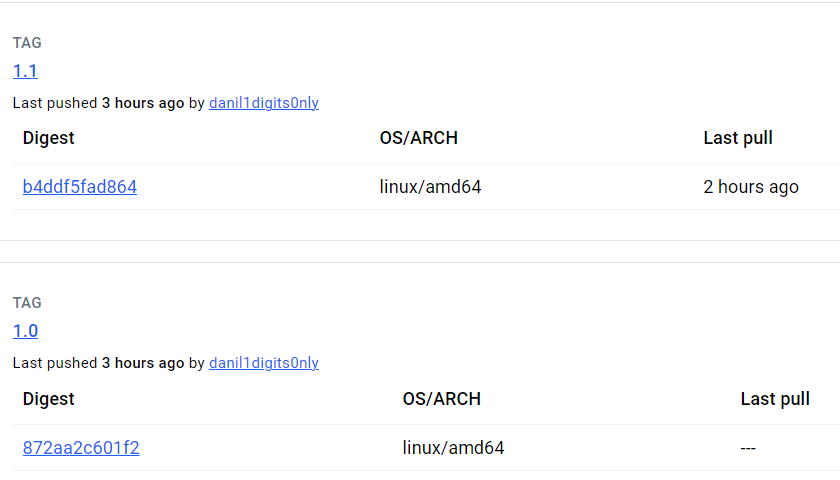
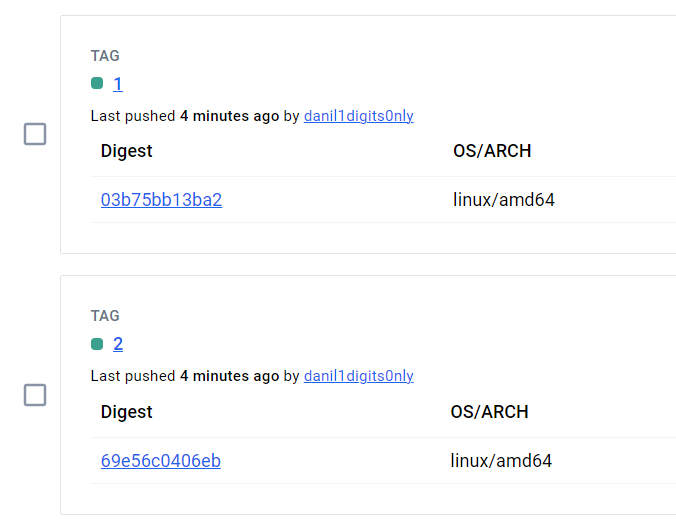
readme updated

diff --git a/lab21/readme.md b/lab21/readme.md
@@ -1,36 +1,96 @@
 # Домашнее задание №21
 
-
-1.	Зарегистрироваться в google cloud(или любой другой облачной платформе) и создать проект с istio
-      или установить minikube на локальную машину и установить туда istio.
-      Первый вариант предпочтительней.
-2.	Написать hello world spring boot приложение, возвращающая на GET запрос текущую дату.
-3.	Составить docker file для сборки образа c вашим приложением
-4.	Собрать образ, проверить локальную работоспособность
-5.	Запушить образ в один из публичных registry. Например, dockerhub
-6.	Удалить локальный образ, запушить с dockerhub
-7.	Развернуть приложение в google cloud с использованием istio
+1. Зарегистрироваться в google cloud(или любой другой облачной платформе) и создать проект с istio
+   или установить minikube на локальную машину и установить туда istio.
+   Первый вариант предпочтительней.
+2. Написать hello world spring boot приложение, возвращающая на GET запрос текущую дату.
+3. Составить docker file для сборки образа c вашим приложением
+4. Собрать образ, проверить локальную работоспособность
+5. Запушить образ в один из публичных registry. Например, dockerhub
+6. Удалить локальный образ, запушить с dockerhub
+7. Развернуть приложение в google cloud с использованием istio
 
 Продвинутое домашнее задание (не обязательно):
-1.	Написать фронт приложение, которое будет красиво отображать текущую дату. Текущую дату фронт должен запрашивать у бэкэнда.
-2.	Развернуть оба приложения в google cloud с использованием istio
-3.	Пробить роут до приложения.
-4.	Выполнить несколько запросов, посмотреть как они будут выглядеть в Kiali
-5.	Выпустить новую версию фронт приложения с изменением стиля отображения.
-6.	Выполнить канареечное развертывание фронта, настроить на использование одного бека.
-7.	Проверить, что под единым роутом нам доступны то одна то другая версия приложения.
 
+1. Написать фронт приложение, которое будет красиво отображать текущую дату. Текущую дату фронт должен запрашивать у
+   бэкэнда.
+2. Развернуть оба приложения в google cloud с использованием istio
+3. Пробить роут до приложения.
+4. Выполнить несколько запросов, посмотреть как они будут выглядеть в Kiali
+5. Выпустить новую версию фронт приложения с изменением стиля отображения.
+6. Выполнить канареечное развертывание фронта, настроить на использование одного бека.
+7. Проверить, что под единым роутом нам доступны то одна то другая версия приложения.
 
-### Результаты
+## Результаты
 
 - Для бэкенда составил двухэтапный [Dockerfile](Dockerfile)
-  - Сборка происходит в контейнере с JDK 
-  - Сервер запускается в контейнере с JRE
+    - Сборка происходит в контейнере с JDK
+    - Сервер запускается в контейнере с JRE
 - У фронтенда тоже двухэтапный [Dockerfile](frontend/Dockerfile)
-  - Сборка в контейнере node:21-alpine (фронтенд тоже нужно собирать)
-  - Раздача статических файлов фронтенда с помощью контейнера с nginx, а также проксирование к бэкенду
+    - Сборка в контейнере node:21-alpine (фронтенд тоже нужно собирать)
+    - Раздача статических файлов фронтенда с помощью контейнера с nginx, а также проксирование к бэкенду
 - Мелкий docker-compose, чтобы локально потестить
-- Запушил образы для [бэкенда](https://hub.docker.com/r/danil1digits0nly/lab21-api) и [фронтенда](https://hub.docker.com/r/danil1digits0nly/lab21-frontend)
-- У фронтенда 2 версии, начальная и канарейка ![img.png](frontend-tags.png)
+- Запушил образы для [бэкенда](https://hub.docker.com/r/danil1digits0nly/lab21-api)
+  и [фронтенда](https://hub.docker.com/r/danil1digits0nly/lab21-frontend)
+- У фронтенда 2 версии: стабильная и канарейка ![frontend-tags.png](frontend-tags.png)
 - Использовал VK Cloud ![VK Cloud](vkcloud.png)
-- ... дальше пока ничего ...
+- Файлы деплоя в папке [deployments](deployments)
+- Выпустил [стабильную](deployments/2-deployment-v1.yaml) и [канарейку](deployments/2-deployment-v2.yaml) отдельными деплоями + единственный деплой на общий [бэкенд](deployments/1-deployment-api.yaml)
+- Распределил запросы между версиями с помощью [VirtualService](deployments/5-virtual-service.yaml) в пропорциях 30/70
+- Столкнулся с проблемой раздачи статических файлов при такой схеме распределения:
+    - Первым запросом получаем index.html по роуту ```/```
+        - V1 возвращает index.html с ```<script src="index-awdj21.js">```
+        - V2 возвращает index.html с ```<script src="index-jtu2oa.js">```
+      > Имена скриптов отличаются из-за разного содержимого. При изменении исходников, сборщик пересчитывает хеш и
+      добавляет в конец названия файла. Это способствует кешированию.
+    - Второй запрос запрашивает указанный скрипт
+        - Если балансировщик перенаправил запрос на ту же версию сервиса, то все хорошо;
+        - но если он перенаправит на другую версию, то файл не будет найден.
+
+### Возможные решения
+
+#### Сделать одинаковыми названия скриптов
+Такой файл будет закеширован навсегда, пользователь теперь будет использовать либо stable, либо канарейку.
+Или кеширование отключаем/снижаем строгость и немного теряем в производительности.
+
+#### Заинлайнить все зависимости в index.html
+Рабочий, но не оптимальный вариант.
+
+#### Матчинг по заголовку X-Version
+В html код с таким тегом ```<script src="index-awdj21.js">``` я не могу добавить заголовок X-Version.
+
+#### Матчинг по cookie
+Привязывает пользователя на определенный срок к версии приложения. Требует VirtualService добавлять заголовок Set-Cookie. Если заголовок уже выставлен, например api сервером, то нужно мержить заголовки; это требует кода на Lua внутрVirtualService. Этот вариант таки не попробовал.
+
+#### Конечный вариант
+1. В [package.json](frontend/package.json#version) указываю версию приложения
+2. [Сборщику](frontend/vite.config.js) фронта указываю добавлять префикс к статическим файлам с версией
+из [package.json](frontend/package.json#version)
+3. Результаты такой сборки
+   - статика сервиса v1
+     - index.html
+     - v1
+       - index-DDCXQ8IO.js
+       - index-4oewBf1z.css
+   - статика сервиса v2
+     - index.html
+     - v2
+       - index-CtKhg8lP.js
+       - index-4oewBf1z.css
+4. Настраиваю [VirtualService](deployments/5-virtual-service.yaml) для мэтчинга по префиксу урла
+   - Первый запрос на / балансируется
+   - Второй на /v2/index-CtKhg8lP.js строго определяет сервис
+5. В результате индексный файл определяет канареечную выкатку, а после выбора версии все запросы к статике идут куда надо.
+
+#### Бонусный вариант
+А можно ли как-то складировать статические файлы разных версий фронта на едином сервере?
+Такой сервер отработает запрос на любой файл любой версии фронта.
+А балансировка будет все также по index.html 
+
+
+## Как выглядит результат
+[Приложение](http://90.156.213.50/) захостил, но кластер жутко дорогой, а рублей осталось не более чем до 28.03.2024.
+
+На случай отключения хостинга вот скрины результатов. Можно увидеть разное отображение версии и запрос к статике на /v1/index*.js и v2/index*.js
+![stable.png](stable.png)
+![canary.png](canary.png)
